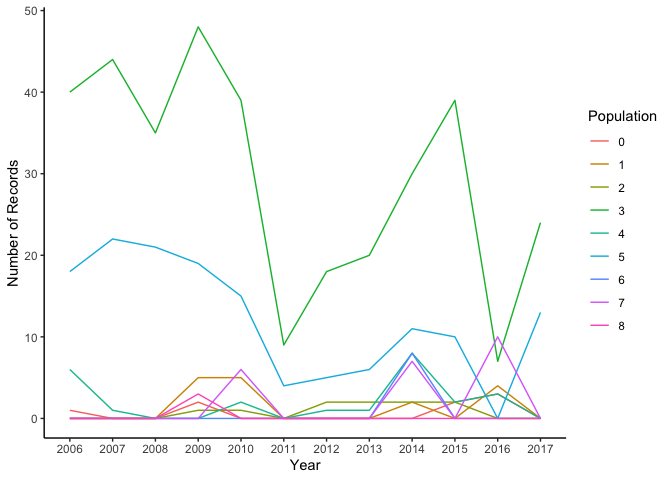
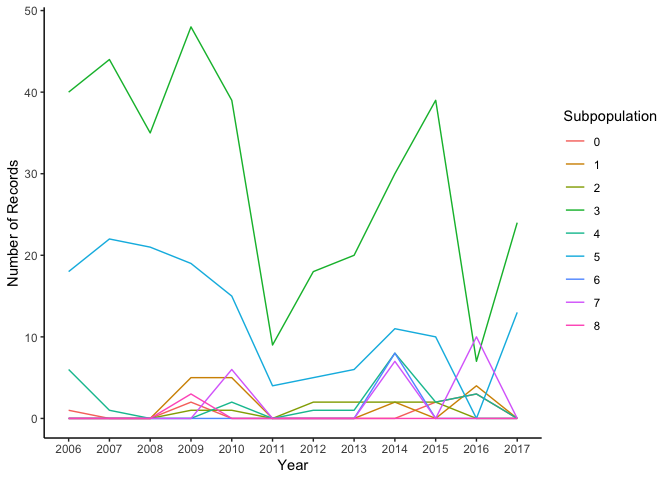
fixing figures

diff --git a/Appendix1.md b/Appendix1.md
@@ -1094,13 +1094,14 @@ for(i in 0:8){
 
 ``` r
 pop_points2 <- pop_points2 %>%
-  mutate(Year = year(Date))
+  mutate(Year = year(Date)) %>%
+  rename("Subpopulation" = Population)
 
-datemat <- table(pop_points2$Population,pop_points2$Year) %>%
+datemat <- table(pop_points2$Subpopulation,pop_points2$Year) %>%
   as.data.frame() %>%
-  rename(Population = Var1,Year = Var2)
+  rename(Subpopulation = Var1,Year = Var2)
 
-ggplot(datemat, aes(x=Year, y=Freq, group=Population, color=Population)) +
+ggplot(datemat, aes(x=Year, y=Freq, group=Subpopulation, color=Subpopulation)) +
     geom_line() + theme_classic() +
   ylab("Number of Records")
 ```
